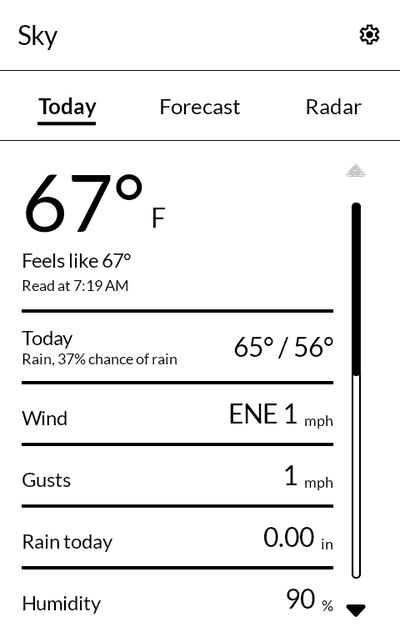
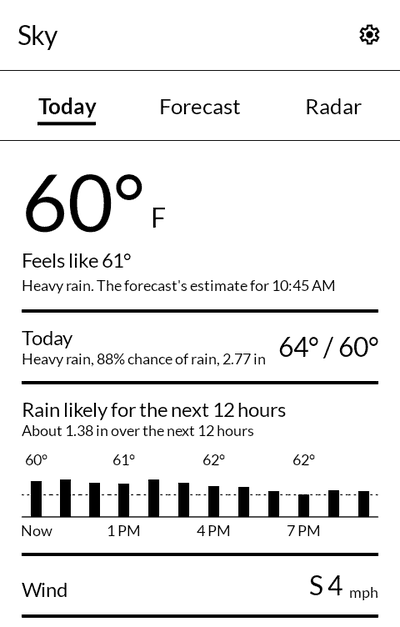
Sky's picture from 0.7.0, and a typewriter keyboard can be Bluetooth

diff --git a/index.html b/index.html
@@ -170,7 +170,7 @@ white, no animation, lists you can read in sunlight.</p>
        alt="Typewriter showing a page of writing, held sideways">
   <h3>Typewriter <span class="jp">/ 打字機 dajiki</span></h3>
   <p>A text editor that opens in landscape and stays there, for writing with a keyboard
-  plugged into the phone. What you write is plain text, in a folder you choose.</p>
+  connected to the phone. What you write is plain text, in a folder you choose.</p>
   <p class="links">
     <a href="https://github.com/wanderwildwood/dajiki/releases/latest/download/dajiki.apk">Download</a>
     <a href="https://github.com/wanderwildwood/dajiki">Source</a>
@@ -272,7 +272,7 @@ white, no animation, lists you can read in sunlight.</p>
 
 <div class="app">
   <img class="shot" src="shots/soramoyo.png" width="400" height="627" loading="lazy"
-       alt="Sky showing 67 degrees and the day's readings">
+       alt="Sky showing 60 degrees, and rain likely for the next twelve hours">
   <h3>Sky <span class="jp">/ 空模様 soramoyō</span></h3>
   <p>The days ahead, the rain radar, and your own weather station if you have one. It says no
   more than the station and the forecast know.</p>
